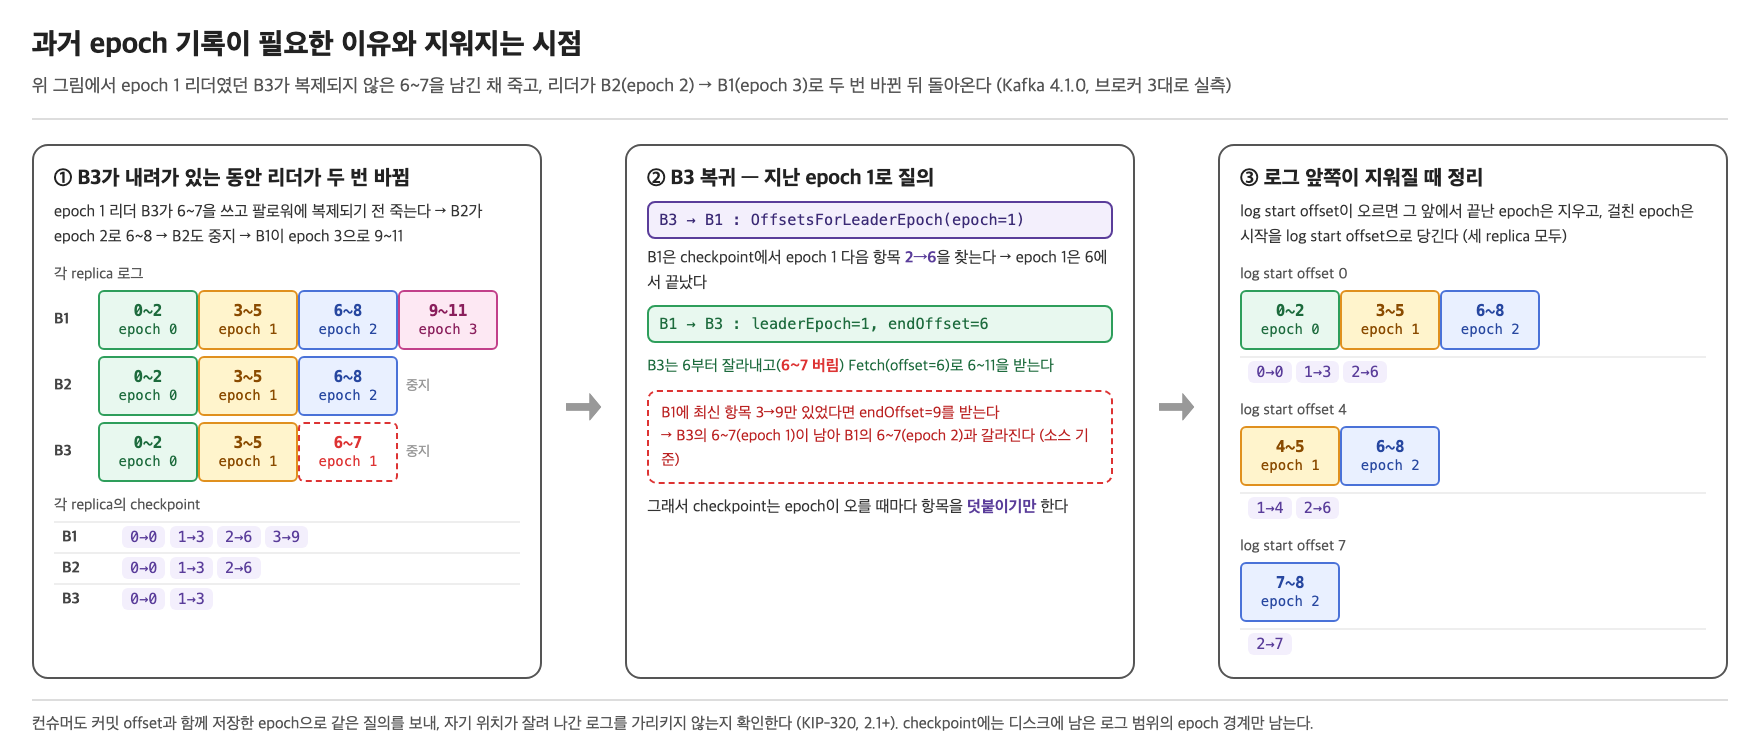
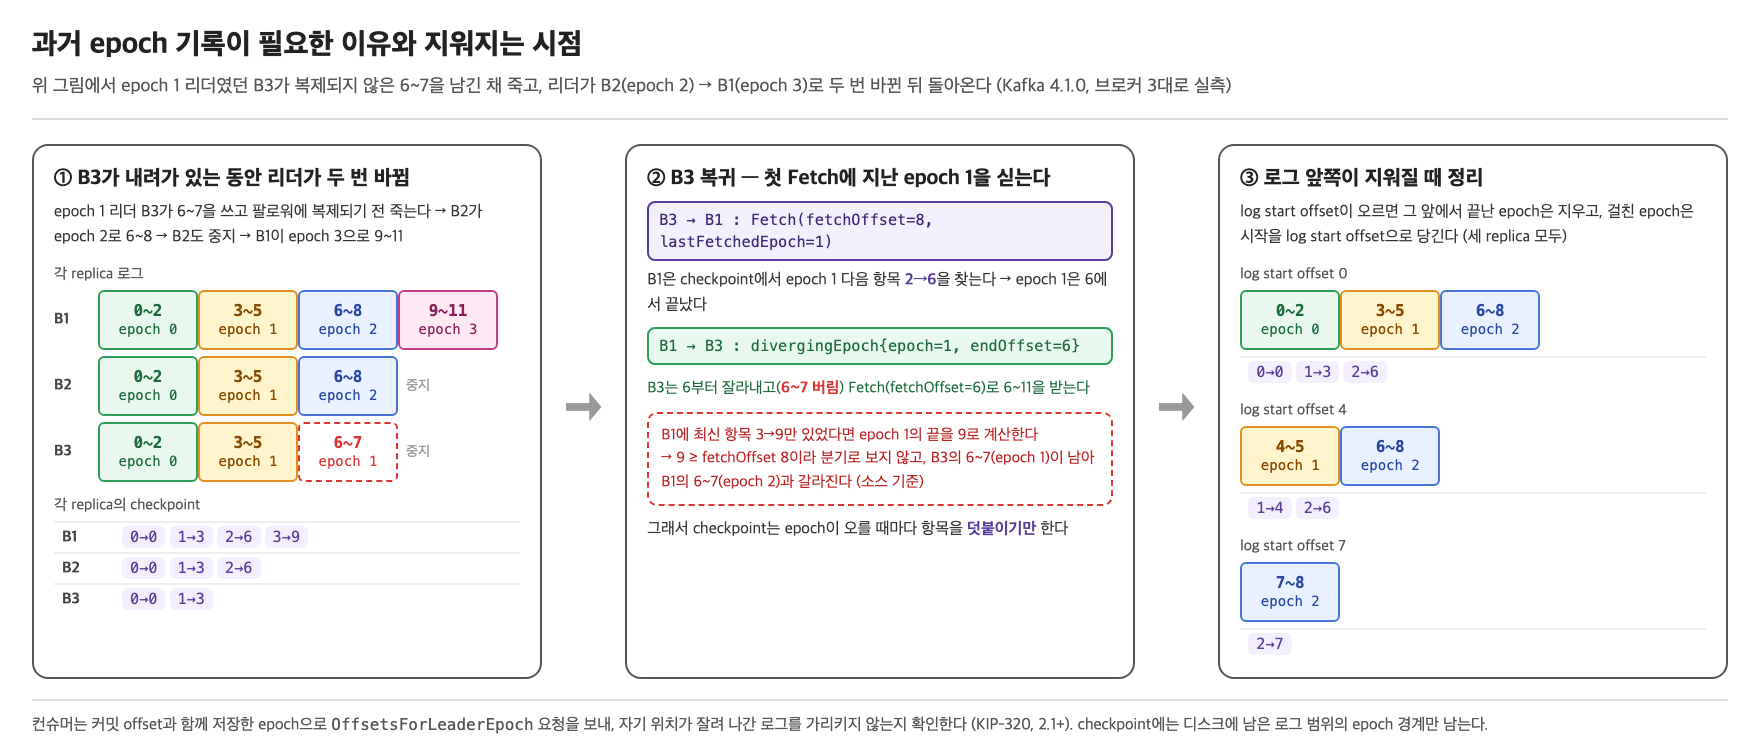
카프카 ISR·오프셋 글: truncation 분기점 질의를 Kafka 4.2 기준(Fetch diverging_epoch)으로 수정, 그림 재렌더링

diff --git a/_posts/knowledge /theory/kafka/2026-08-11-kafka-partition-offsets.md b/_posts/knowledge /theory/kafka/2026-08-11-kafka-partition-offsets.md
@@ -207,19 +207,67 @@ checkpoint는 파일의 줄바꿈을 `|`로 바꿔 한 줄로 찍은 것이다.
 |---|---|
 | Leader Epoch | 리더가 바뀔 때마다 +1되는 번호. 모든 record batch에 기록된다 |
 | `leader-epoch-checkpoint` | replica마다 `epoch → 그 epoch의 시작 offset`을 디스크에 저장한 파일. 현재 리더도 과거 epoch 기록을 갖고 있어 옛 리더가 죽어도 답할 수 있다 |
-| `OffsetsForLeaderEpoch` | 재시작한 팔로워가 자기 마지막 epoch을 보내 그 epoch의 끝 offset을 현재 리더에게 묻는 요청 |
+| 분기점 질의 | 팔로워가 자기 마지막 epoch을 보내 그 epoch의 끝 offset을 현재 리더에게 묻는 것. 0.11~2.6은 별도 `OffsetsForLeaderEpoch` 요청으로, 2.7부터는 `FetchRequest`의 `last_fetched_epoch`와 `FetchResponse`의 `diverging_epoch`으로 묻고 답한다 |
 
-리더는 질의한 epoch이 자기 현재 epoch이면 LEO를, 지난 epoch이면 다음 epoch의 시작 offset을 돌려준다. 팔로워는 HW가 아니라 그 offset부터 자른다.
+Kafka 4.2 팔로워는 재시작 후 따로 묻지 않고 곧바로 자기 LEO부터 Fetch를 보낸다. 요청에는 마지막으로 받은 batch의 epoch(`last_fetched_epoch`)이 같이 실린다. 리더는 records를 읽기 전에 그 epoch이 자기 로그에서 어디서 끝나는지 checkpoint로 계산한다. 질의한 epoch이 자기 현재 epoch이면 LEO, 지난 epoch이면 다음 epoch의 시작 offset이다.
+
+- 계산한 끝 offset이 팔로워의 `fetch_offset`보다 작으면(또는 그 epoch을 리더가 모르면) 로그가 갈라진 것이다. 리더는 records 없이 `diverging_epoch {epoch, end_offset}`만 담아 응답한다.
+- 팔로워는 자기 checkpoint에서 같은 epoch의 끝을 구해, 리더 값과 둘 중 작은 offset까지 자른다. 그 다음 Fetch부터는 정상적으로 records를 받는다.
+- 갈라지지 않았으면 그 Fetch가 그대로 records를 받는다. 재시작한 팔로워라고 왕복이 하나 더 드는 일은 없다.
+
+리더 쪽 판정은 `kafka.cluster.Partition#readRecords`에 있다.
+
+```scala
+// kafka.cluster.Partition (Kafka 4.2.0, 요약)
+lastFetchedEpoch.ifPresent { fetchEpoch =>
+  val epochEndOffset = lastOffsetForLeaderEpoch(currentLeaderEpoch, fetchEpoch, fetchOnlyFromLeader = false)
+  ...
+  if (epochEndOffset.leaderEpoch < fetchEpoch || epochEndOffset.endOffset < fetchOffset) {
+    val divergingEpoch = new FetchResponseData.EpochEndOffset()
+      .setEpoch(epochEndOffset.leaderEpoch)
+      .setEndOffset(epochEndOffset.endOffset)
+    return new LogReadInfo(FetchDataInfo.empty(fetchOffset), Optional.of(divergingEpoch), ...)
+  }
+}
+```
+
+`lastOffsetForLeaderEpoch`는 `OffsetsForLeaderEpoch` 요청을 처리할 때 쓰는 것과 같은 계산이다. 묻는 경로만 별도 요청에서 Fetch로 옮겨졌다. 이 변경은 KIP-595가 Fetch에 `last_fetched_epoch`·`diverging_epoch` 필드를 넣으면서 들어왔고, 브로커 간 복제에는 inter-broker protocol 2.7부터 쓰인다(`kafka.server.AbstractFetcherThread#partitionFetchState` 주석: "IBP 2.7부터는 Fetch 응답에 실려 오는 분기 정보로 truncation할 수 있다"). `OffsetsForLeaderEpoch` API가 없어진 것은 아니고, 컨슈머가 자기 위치를 검증할 때(KIP-320) 계속 쓴다.
+
+<details markdown="1">
+<summary>실측: 분기된 팔로워의 첫 Fetch (Kafka 4.2.0)</summary>
+
+브로커 2·3·4, RF=3 토픽에서 그림의 분기 경우를 만들었다. 리더 b2에 `m1~m3`를 복제한 뒤 팔로워 b3·b4를 `docker pause`로 멈추고, b2에만 `x1`, `x2`(offset 3~4, epoch 0)를 `acks=1`로 썼다. 이어서 b2를 SIGKILL로 죽이고 b3·b4를 풀었다. 새 리더 b3(epoch 1)에는 `y1`, `y2`(offset 3~4, epoch 1)를 썼다. 그 다음 b2를 다시 띄웠다.
+
+리더 b3의 요청 로그(`kafka.request.logger=DEBUG`)에 찍힌 b2의 첫 두 Fetch다.
+
+```
+FETCH  fetchOffset=5, lastFetchedEpoch=0, currentLeaderEpoch=1
+  → response: highWatermark=5, divergingEpoch={"epoch":0,"endOffset":3}   (records 없음)
+FETCH  fetchOffset=3, lastFetchedEpoch=0
+  → response: highWatermark=5, recordsSizeInBytes=79                       (y1, y2)
+```
+
+b2 쪽 로그다.
+
+```
+Truncating partition d-0 with TruncationState(offset=3, completed=true) due to leader epoch
+  and offset EpochEndOffset(errorCode=0, partition=0, leaderEpoch=0, endOffset=3)
+[UnifiedLog partition=d-0] Truncating to offset 3
+```
+
+b3가 b2(`clientId=broker-2-fetcher-0`)에게서 받은 요청은 `FETCH` 72건이 전부였고, `OFFSET_FOR_LEADER_EPOCH`는 0건이었다. 재기동 후 b2의 로그는 `m1 m2 m3 y1 y2`로 b3와 같다.
+
+</details>
 
 지난 epoch 질의는 팔로워가 마지막으로 append한 뒤 리더가 바뀐 경우다. 이 질의에 답하려고 checkpoint는 과거 epoch 항목을 지우지 않는다.
 
-![epoch 1 리더 B3가 복제되지 않은 6~7을 남긴 채 죽고, 리더가 B2(epoch 2) → B1(epoch 3)로 두 번 바뀐 뒤 B3가 돌아와 OffsetsForLeaderEpoch(epoch=1)를 보낸다. B1은 checkpoint의 과거 항목 2→6을 보고 endOffset=6을 돌려주고 B3는 6~7을 잘라낸다. 최신 항목 3→9만 있었다면 9를 돌려줘 B3의 6~7이 남아 로그가 갈라진다. 항목은 log start offset이 오르면 앞쪽부터 정리되어 0→0 1→3 2→6이 1→4 2→6, 다시 2→7로 줄어든다](../../../../assets/img/kafka-partition-offsets-img10.png)
+![epoch 1 리더 B3가 복제되지 않은 6~7을 남긴 채 죽고, 리더가 B2(epoch 2) → B1(epoch 3)로 두 번 바뀐 뒤 B3가 돌아와 Fetch(fetchOffset=8, lastFetchedEpoch=1)를 보낸다. B1은 checkpoint의 과거 항목 2→6을 보고 divergingEpoch(epoch=1, endOffset=6)을 돌려주고 B3는 6~7을 잘라낸다. 최신 항목 3→9만 있었다면 epoch 1의 끝을 9로 계산해 분기로 보지 않으므로 B3의 6~7이 남아 로그가 갈라진다. 항목은 log start offset이 오르면 앞쪽부터 정리되어 0→0 1→3 2→6이 1→4 2→6, 다시 2→7로 줄어든다](../../../../assets/img/kafka-partition-offsets-img10.png)
 
-![리더 L과 팔로워 F1 모두 epoch 5로 기록된 0~99, 100~199와 checkpoint {5→0}을 갖고 있고 F1의 HW만 100이다. F1이 재시작해 OffsetsForLeaderEpoch(epoch=5)를 보내면 L은 현재 epoch과 같으므로 자기 LEO 200을 돌려주고, F1은 200부터 자르므로 아무것도 버리지 않는다. 이후 L이 죽고 F1이 epoch 6 리더가 되면 checkpoint는 {5→0, 6→200}이 되고 100~199가 남는다](../../../../assets/img/kafka-partition-offsets-img7.png)
+![리더 L과 팔로워 F1 모두 epoch 5로 기록된 0~99, 100~199와 checkpoint {5→0}을 갖고 있고 F1의 HW만 100이다. F1이 재시작해 Fetch(fetchOffset=200, lastFetchedEpoch=5)를 보내면 L은 epoch 5가 현재 epoch이므로 끝을 자기 LEO 200으로 계산하고, 200이 fetchOffset 이상이라 분기가 없으므로 F1은 아무것도 버리지 않고 이어서 받는다. 이후 L이 죽고 F1이 epoch 6 리더가 되면 checkpoint는 {5→0, 6→200}이 되고 100~199가 남는다](../../../../assets/img/kafka-partition-offsets-img7.png)
 
-![epoch 0 리더 A는 m1@0, m2@1을, 팔로워 B는 flush 전이던 m2를 잃고 m1@0만 가진 채 정전으로 함께 다운된다. B가 epoch 1 리더가 되어 m3을 offset 1에 epoch 1로 쓰고 checkpoint는 {0→0, 1→1}이 된다. 복귀한 A가 OffsetsForLeaderEpoch(epoch=0)을 보내면 B는 checkpoint에서 epoch 1의 시작 offset 1을 돌려주고, A는 offset 1의 m2를 잘라낸 뒤 Fetch(offset=1)로 m3을 받아 B와 로그와 checkpoint가 일치한다](../../../../assets/img/kafka-partition-offsets-img8.png)
+![epoch 0 리더 A는 m1@0, m2@1을, 팔로워 B는 flush 전이던 m2를 잃고 m1@0만 가진 채 정전으로 함께 다운된다. B가 epoch 1 리더가 되어 m3을 offset 1에 epoch 1로 쓰고 checkpoint는 {0→0, 1→1}이 된다. 복귀한 A가 Fetch(fetchOffset=2, lastFetchedEpoch=0)를 보내면 B는 checkpoint에서 epoch 1의 시작 offset 1을 divergingEpoch(epoch=0, endOffset=1)로 돌려주고, A는 offset 1의 m2를 잘라낸 뒤 Fetch(fetchOffset=1)로 m3을 받아 B와 로그와 checkpoint가 일치한다](../../../../assets/img/kafka-partition-offsets-img8.png)
 
-이 truncation은 팔로워가 첫 fetch를 보내기 전에 일어나고(→ [ISR 글 부록 B §최초 fetch 시점](/posts/kafka-isr-1/#부록-b--최초-fetch-시점)), 0.11부터 기본 동작이라 따로 켤 설정은 없다. rolling restart처럼 리더 교체가 연달아 일어나도 위 유실은 생기지 않는다. 다만 ISR 축소와 unclean election을 피하려면 브로커를 재시작한 뒤 `UnderReplicatedPartitions`가 0으로 돌아온 걸 확인하고 다음 브로커를 내린다.
+이 truncation은 팔로워의 첫 Fetch 응답으로 일어나고(→ [ISR 글 부록 B §최초 fetch 시점](/posts/kafka-isr-1/#부록-b--최초-fetch-시점)), 0.11부터 기본 동작이라 따로 켤 설정은 없다. rolling restart처럼 리더 교체가 연달아 일어나도 위 유실은 생기지 않는다. 다만 ISR 축소와 unclean election을 피하려면 브로커를 재시작한 뒤 `UnderReplicatedPartitions`가 0으로 돌아온 걸 확인하고 다음 브로커를 내린다.
 
 ### 팔로워가 min을 취해야 하는 이유
 
@@ -343,6 +391,9 @@ replica별 LEO를 보려면 각 브로커의 JMX 지표를 봐야 한다. 복제
 - [`LogValidator#assignOffsetsNonCompressed` (github.com/apache/kafka, 4.2)](https://github.com/apache/kafka/blob/4.2/storage/src/main/java/org/apache/kafka/storage/internals/log/LogValidator.java) — 레코드마다 오프셋을 매기는 코드
 - [`RecordAccumulator` (github.com/apache/kafka, 4.2)](https://github.com/apache/kafka/blob/4.2/clients/src/main/java/org/apache/kafka/clients/producer/internals/RecordAccumulator.java) — 프로듀서가 `baseOffset = 0`으로 배치를 만드는 코드
 - [KIP-101: Reduce log complexity with Leader Epoch (cwiki.apache.org)](https://cwiki.apache.org/confluence/display/KAFKA/KIP-101+-+Alter+Replication+Protocol+to+use+Leader+Epoch+rather+than+High+Watermark+for+Truncation) — HW 전파 지연이 만드는 유실·분기 시나리오, `OffsetsForLeaderEpoch`, leader-epoch-checkpoint
+- [KIP-595: A Raft Protocol for the Metadata Quorum (cwiki.apache.org)](https://cwiki.apache.org/confluence/display/KAFKA/KIP-595%3A+A+Raft+Protocol+for+the+Metadata+Quorum) — Fetch에 `last_fetched_epoch`·`diverging_epoch` 필드 추가
+- [`Partition#readRecords` (github.com/apache/kafka, 4.2.0)](https://github.com/apache/kafka/blob/4.2.0/core/src/main/scala/kafka/cluster/Partition.scala) — Fetch 처리 중 `last_fetched_epoch`로 분기를 판정해 `diverging_epoch`을 돌려주는 부분
+- [`AbstractFetcherThread#partitionFetchState` · `getOffsetTruncationState` (github.com/apache/kafka, 4.2.0)](https://github.com/apache/kafka/blob/4.2.0/core/src/main/scala/kafka/server/AbstractFetcherThread.scala) — 팔로워가 Fetch 응답의 분기 정보로 truncation하는 부분
 - [KIP-320: Allow fetchers to detect and handle log truncation (cwiki.apache.org)](https://cwiki.apache.org/confluence/display/KAFKA/KIP-320%3A+Allow+fetchers+to+detect+and+handle+log+truncation) — 컨슈머가 커밋 offset의 leader epoch으로 truncation을 감지
 - [KIP-392: Allow consumers to fetch from closest replica (cwiki.apache.org)](https://cwiki.apache.org/confluence/display/KAFKA/KIP-392%3A+Allow+consumers+to+fetch+from+closest+replica) — 팔로워가 컨슈머에게 응답할 때의 상한
 - [`ReplicaManager#checkpointHighWatermarks` (github.com/apache/kafka, 4.2)](https://github.com/apache/kafka/blob/4.2/core/src/main/scala/kafka/server/ReplicaManager.scala) — HW를 `replication-offset-checkpoint` 파일에 주기적으로 기록

diff --git a/_posts/knowledge /theory/kafka/2026-08-11-kafka-isr-1.md b/_posts/knowledge /theory/kafka/2026-08-11-kafka-isr-1.md
@@ -249,6 +249,7 @@ Kafka wire protocol 의 핵심 RPC. consumer / follower 모두 같은 RPC 사용
 | `responses[].partitions[].last_stable_offset` | transactional read 시 committed 경계 |
 | `responses[].partitions[].log_start_offset` | 가장 오래된 보존 중인 offset |
 | `responses[].partitions[].aborted_transactions[]` | transactional, isolation_level=read_committed 시 |
+| `responses[].partitions[].diverging_epoch` | follower 의 `last_fetched_epoch` 기준으로 로그가 갈라졌을 때만 채워짐. `{epoch, end_offset}` = follower 가 잘라낼 지점 (KIP-595, 2.7+ 복제) |
 | `responses[].partitions[].preferred_read_replica` | KIP-392 (rack-aware read) |
 | `responses[].partitions[].records` | 실제 메시지 RecordBatch |
 
@@ -260,7 +261,7 @@ Kafka wire protocol 의 핵심 RPC. consumer / follower 모두 같은 RPC 사용
 
 > 본문의 fetch 사이클은 **이미 follower 로 동작 중인** 상태의 정상(steady-state) 사이클. 그럼 맨 처음 fetch 는 언제 나가나.
 
-백그라운드에서 계속 돌고 있는 게 아니라, 브로커가 그 파티션의 **follower 로 지정되는 순간** 시작. 트리거는 컨트롤러의 **`LeaderAndIsr` 요청**.
+백그라운드에서 계속 돌고 있는 게 아니라, 브로커가 그 파티션의 **follower 로 지정되는 순간** 시작. 트리거는 브로커가 KRaft 메타데이터 로그에서 읽은 **`PARTITION_RECORD`·`PARTITION_CHANGE_RECORD`** (Kafka 4.2 기준). 컨트롤러가 브로커에 명령을 보내는 게 아니라 브로커가 레코드를 읽고 스스로 전환한다. ZooKeeper 모드에서는 컨트롤러가 `LeaderAndIsr` 요청을 보냈다.
 
 | 상황 | 설명 |
 |------|------|
@@ -270,22 +271,24 @@ Kafka wire protocol 의 핵심 RPC. consumer / follower 모두 같은 RPC 사용
 | 리더십 변경 | 리더였던 브로커가 follower 로 강등 / follower 의 리더가 바뀜 |
 
 ```
-1. Controller → Broker: LeaderAndIsr ("이 파티션 follower, 리더는 B0")
-2. ReplicaManager.becomeLeaderOrFollower → makeFollowers()
-3. 로그 truncation  ← fetch 전에 리더 기준으로 자기 로그를 잘라 정합성 맞춤
-4. ReplicaFetcherThread 에 파티션 등록 → 첫 FetchRequest 전송
-   fetch_offset = (truncation 후) 자기 LEO
+1. 브로커가 메타데이터 로그에서 PARTITION_CHANGE_RECORD 를 읽음 ("이 파티션 follower, 리더는 B0")
+2. BrokerMetadataPublisher → ReplicaManager.applyDelta → applyLocalFollowersDelta → Partition.makeFollower
+3. ReplicaFetcherThread 에 파티션 등록 → 첫 FetchRequest 전송
+   fetch_offset = 자기 LEO (leader epoch 기록이 없으면 HW)
+   last_fetched_epoch = 자기 로그의 마지막 epoch
    - 신규 replica:   LEO=0  → fetch_offset=0
-   - 재기동 브로커:  truncation 후 LEO
+   - 재기동 브로커:  자르지 않은 그대로의 LEO
+4. 로그가 갈라졌으면 첫 응답이 records 없이 diverging_epoch {epoch, end_offset} 를 돌려줌
+   → 그 offset 까지 truncate → 다음 FetchRequest 부터 정상 복제
 ```
 
-**왜 truncation 이 첫 fetch *전*에 필요한가**
+**왜 truncation 이 필요한가**
 
-이 follower 가 과거에 리더였을 수 있음. 그때 자기만 갖고 있던 offset 100 메시지가, 새 리더에는 없거나 **다른 메시지**일 수 있음 (unclean 상황). 그대로 fetch 하면 두 로그가 영구히 어긋남(divergence). 그래서 fetch 시작 전에 자기 로그를 새 리더 기준으로 잘라 맞춤.
+이 follower 가 과거에 리더였을 수 있음. 그때 자기만 갖고 있던 offset 100 메시지가, 새 리더에는 없거나 **다른 메시지**일 수 있음 (unclean 상황). 그대로 이어 받으면 두 로그가 영구히 어긋남(divergence). 그래서 새 리더 기준으로 자기 로그 꼬리를 잘라 맞춤.
 
-- 과거: **HW 기준** truncation → split-brain 시 유실/divergence 버그
-- 현재: **Leader Epoch 기준** (KIP-101). follower 가 `OffsetsForLeaderEpoch` 로 *"epoch N 에서 너 LEO 어디였어?"* 물어 정확한 분기점을 찾아 거기까지만 truncate → [카프카 파티션 로그의 오프셋들 §Leader Epoch으로 분기점을 리더에게 묻는다](/posts/kafka-partition-offsets/#leader-epoch으로-분기점을-리더에게-묻는다)
-
+- 0.11 이전: **HW 기준** truncation → split-brain 시 유실/divergence 버그
+- 0.11~2.6: **Leader Epoch 기준** (KIP-101). fetch 시작 *전에* `OffsetsForLeaderEpoch` 요청으로 *"epoch N 은 어디서 끝났어?"* 를 물어 분기점까지 truncate
+- 2.7+ (Kafka 4.2 포함): 같은 질문을 **첫 Fetch 에 실음** (`last_fetched_epoch` → `diverging_epoch`, KIP-595). 별도 왕복 없이 fetch 를 바로 시작하고, 갈라졌을 때만 응답이 분기점을 알려 줌. Kafka 4.2.0 에서 재기동한 follower 가 리더에게 보낸 요청은 `FETCH` 뿐이고 `OffsetsForLeaderEpoch` 는 0건이었다 → [카프카 파티션 로그의 오프셋들 §Leader Epoch으로 분기점을 리더에게 묻는다](/posts/kafka-partition-offsets/#leader-epoch으로-분기점을-리더에게-묻는다)
 
 ## 참고 자료
 
